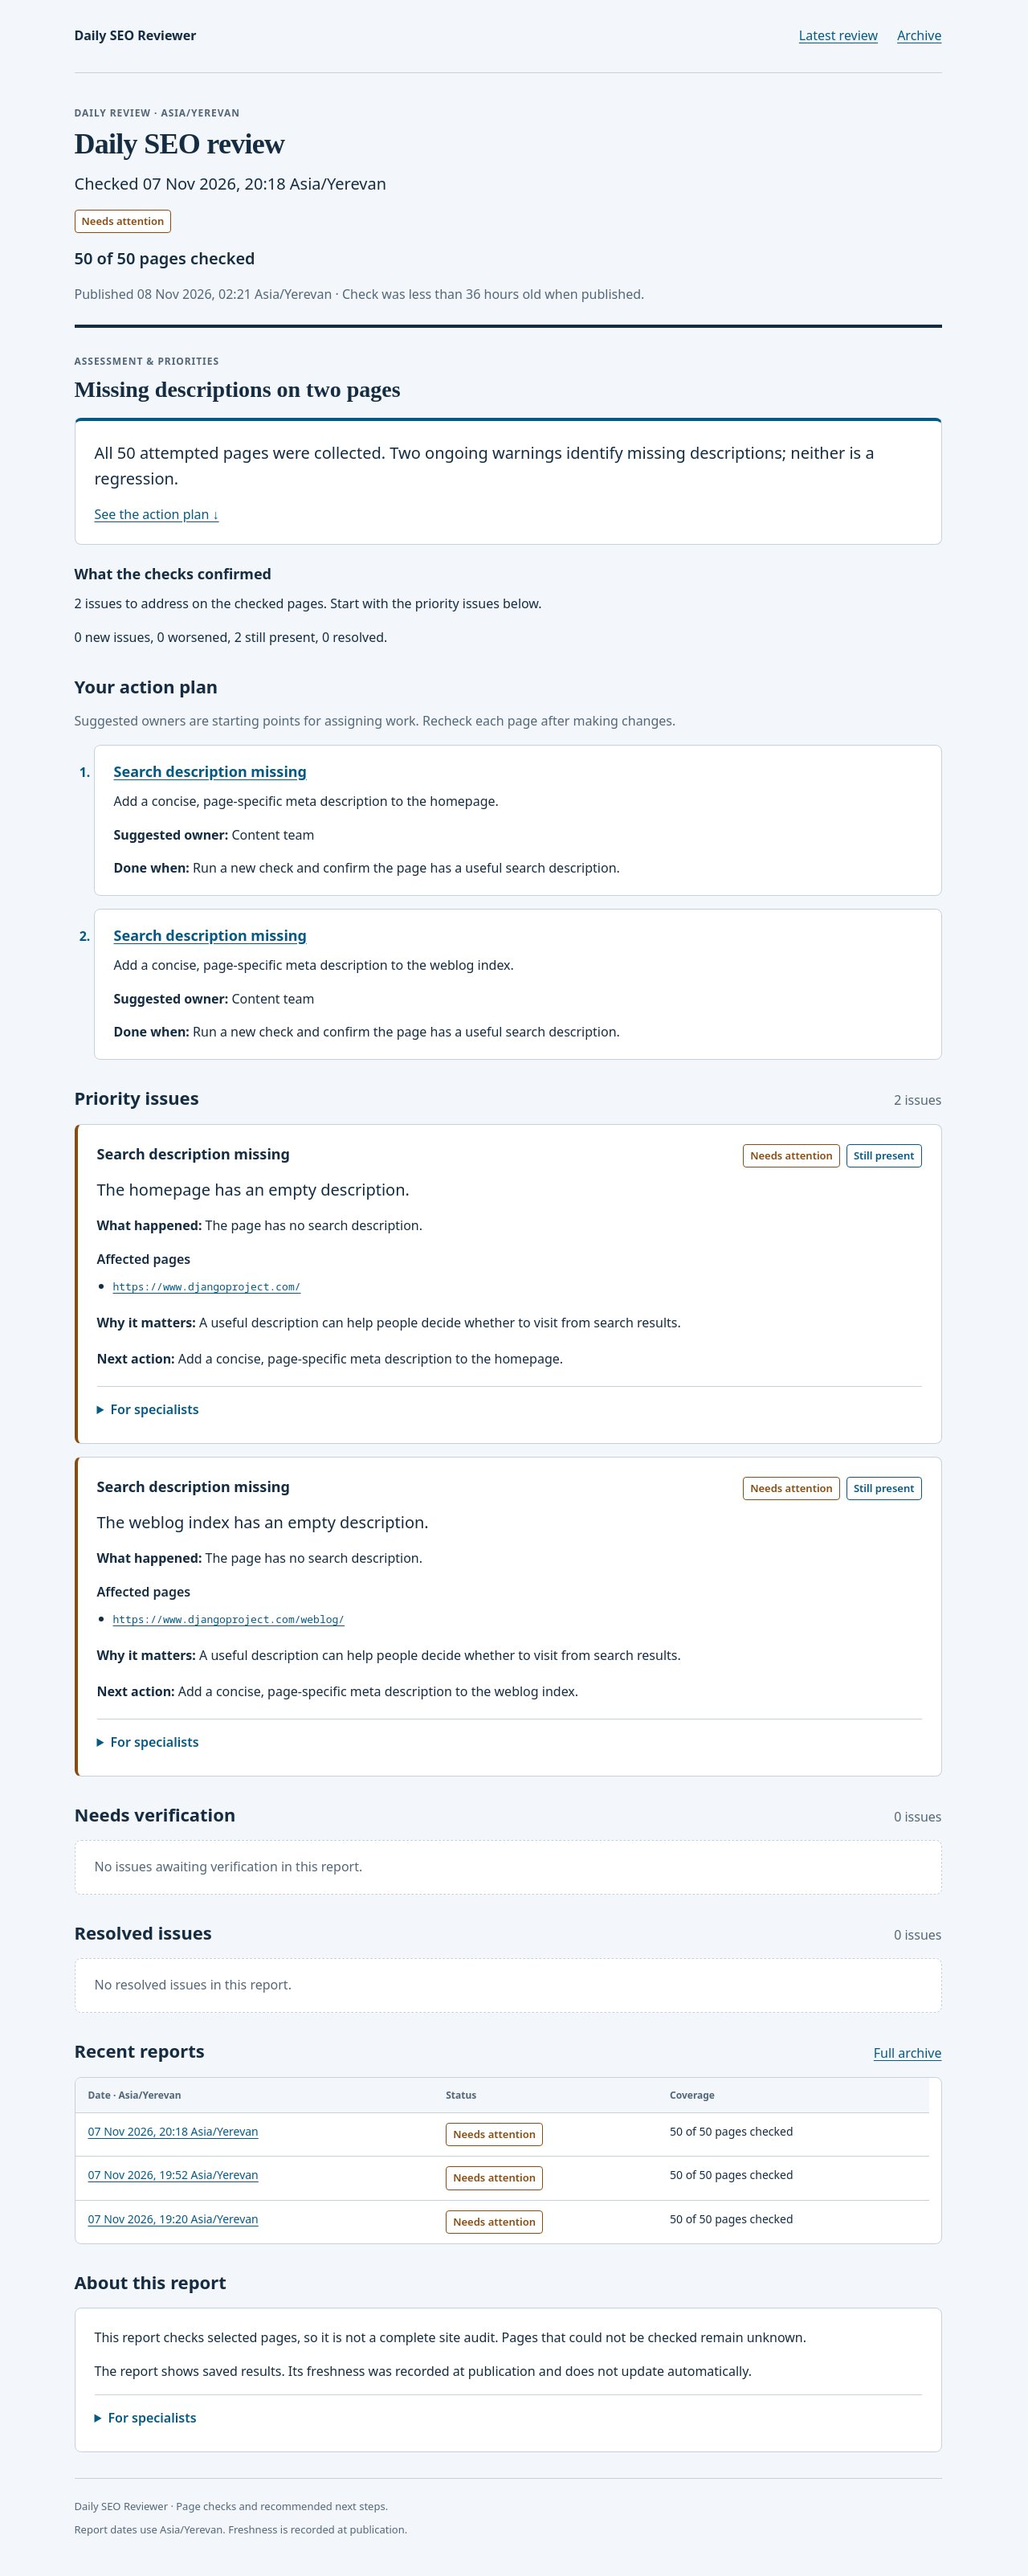
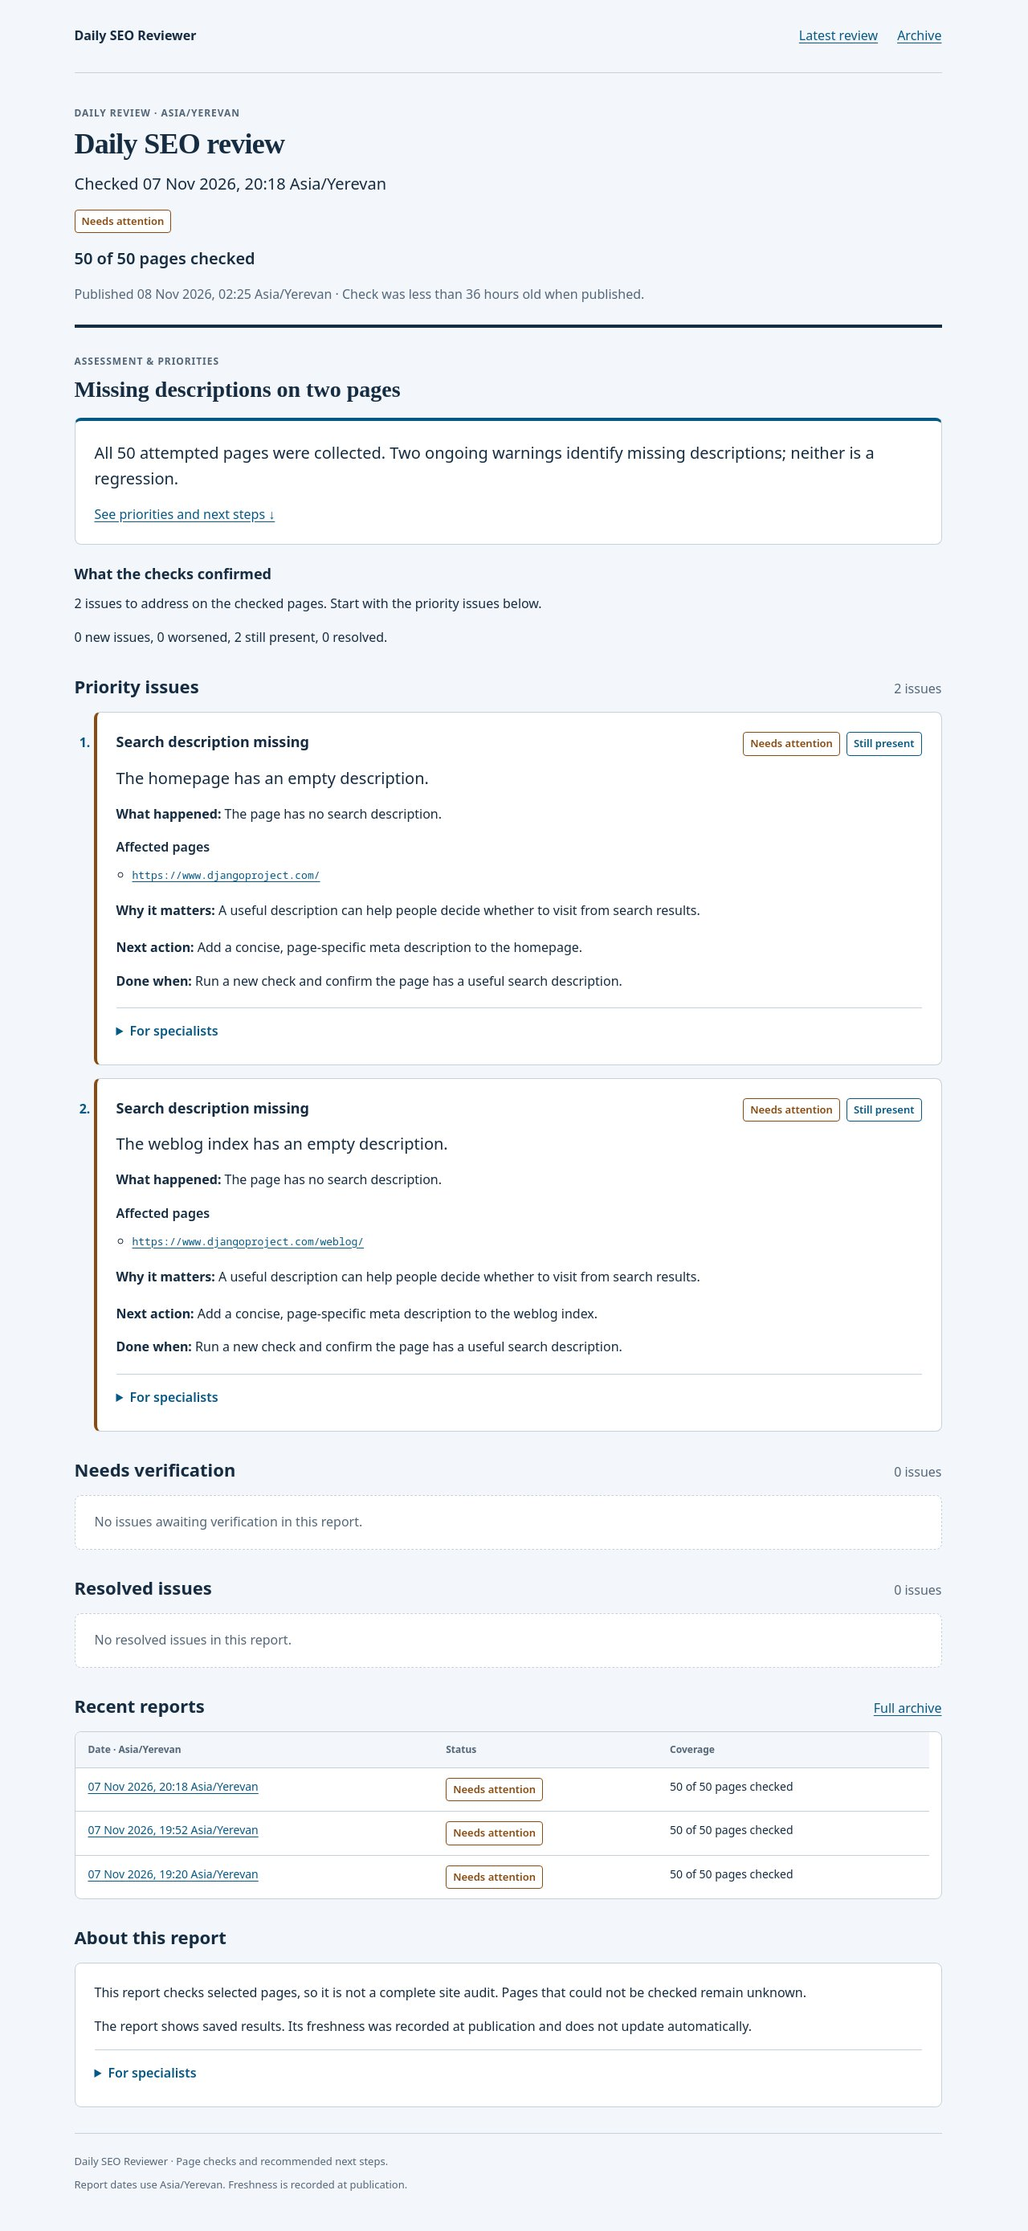
Combine report actions and priorities into one list

diff --git a/seo_reviewer/rendering/report.html b/seo_reviewer/rendering/report.html
@@ -19,7 +19,7 @@
   <p class="eyebrow">Assessment &amp; priorities</p>
   {% if report.narrative_source == 'ai' %}
   <h2 id="assessment-heading" class="assessment-title">{{ report.narrative.headline }}</h2>
-  <div class="assessment panel"><p class="lede">{{ report.narrative.summary }}</p><a href="#action-plan-heading">See the action plan ↓</a></div>
+  <div class="assessment panel"><p class="lede">{{ report.narrative.summary }}</p><a href="#issues-1">See priorities and next steps ↓</a></div>
   {% else %}
   <h2 id="assessment-heading">What needs attention</h2>
   <div class="assessment panel"><p class="lede">{{ presentation.summary }}</p><p class="muted">AI summary unavailable. The page checks and recommended actions are still available.</p></div>
@@ -32,26 +32,13 @@
   </div>
 </section>
 
-<section aria-labelledby="action-plan-heading">
-  <h2 id="action-plan-heading">Your action plan</h2>
-  <p class="muted">Suggested owners are starting points for assigning work. Recheck each page after making changes.</p>
-  <ol class="action-plan">
-    {% for item in action_plan %}
-    <li class="panel">
-      <h3><a href="#{{ item.anchor }}">{{ item.title }}</a>{% if item.finding.state == 'unverified' %} · Verify first{% endif %}</h3>
-      <p>{{ item.action }}</p>
-      <p><strong>Suggested owner:</strong> {{ item.suggested_owner }}</p>
-      <p><strong>Done when:</strong> {{ item.verification }}</p>
-    </li>
-    {% else %}<li class="panel">{{ 'Complete the missing checks before deciding whether fixes are needed.' if presentation.incomplete else 'No fixes are currently indicated. Review the next report for changes.' }}</li>{% endfor %}
-  </ol>
-</section>
-
 {% for section in sections %}
 {% set section_index = loop.index %}
 <section aria-labelledby="issues-{{ section_index }}">
   <div class="section-header"><h2 id="issues-{{ section_index }}">{{ section.title }}</h2><span class="muted">{{ section['items'] | length }} {{ 'issue' if section['items'] | length == 1 else 'issues' }}</span></div>
+  {% if section.title == 'Priority issues' and section['items'] %}<ol class="prioritized-list">{% endif %}
   {% for item in section['items'] %}
+  {% if section.title == 'Priority issues' %}<li>{% endif %}
   <article class="finding finding--{{ item.finding.severity }}" aria-labelledby="issue-{{ section_index }}-{{ loop.index }}">
     <div class="finding-header">
       <h3 id="issue-{{ section_index }}-{{ loop.index }}">{{ item.title }}</h3>
@@ -76,6 +63,7 @@
     <p><strong>Why it matters:</strong> {{ item.matters }}</p>
     <div class="action-block">
       <p><strong>Next action:</strong> {{ item.action }}</p>
+      {% if item.finding.state != 'resolved' %}<p><strong>Done when:</strong> {{ item.verification }}</p>{% endif %}
     </div>
     <details><summary>For specialists</summary>
       <dl class="observation-grid">
@@ -85,7 +73,9 @@
       <ul class="evidence-list">{% for evidence in item.evidence %}<li>{% if evidence.href %}<a href="{{ evidence.href }}">{{ evidence.label }}</a>{% else %}<span>{{ evidence.label }}</span>{% endif %}</li>{% else %}<li><a href="{{ collection_json_href }}">View collection data</a></li>{% endfor %}</ul>
     </details>
   </article>
+  {% if section.title == 'Priority issues' %}</li>{% endif %}
   {% else %}<p class="empty-state">{{ 'No issues awaiting verification' if section.title == 'Needs verification' else 'No ' ~ section.title | lower }} in this report.</p>{% endfor %}
+  {% if section.title == 'Priority issues' and section['items'] %}</ol>{% endif %}
 </section>
 {% endfor %}
 

diff --git a/seo_reviewer/rendering/styles.css b/seo_reviewer/rendering/styles.css
@@ -129,9 +129,5 @@ td:first-child { min-width: 160px; }
 .assessment { border-top: 4px solid var(--accent); }
 .check-results { margin-top: 24px; }
 .issue-assessment { font-size: 20px; }
-.action-plan { padding-left: 24px; }
-.action-plan > li { padding: 20px 24px; margin-bottom: 16px; }
-.action-plan > li::marker { color: var(--accent); font-weight: 700; }
-@media (max-width: 680px) {
-  .action-plan > li { padding: 20px 16px; }
-}
+.prioritized-list { padding-left: 24px; }
+.prioritized-list > li::marker { color: var(--accent); font-weight: 700; }

diff --git a/tests/test_render.py b/tests/test_render.py
@@ -286,11 +286,11 @@ def test_assessment_and_action_plan_use_saved_analysis_without_note_labels(tmp_p
     assert not tree.xpath('//script')
     assert 'saved assessment' in tree.text_content()
     assert 'AI note' not in tree.text_content()
-    plan = tree.xpath('//ol[@class="action-plan"]')[0]
+    plan = tree.xpath('//ol[@class="prioritized-list"]')[0]
     assert 'Write a useful homepage description.' in plan.text_content()
-    assert 'Content team' in plan.text_content() and 'Done when:' in plan.text_content()
-    target = plan.xpath('.//a/@href')[0][1:]
-    assert tree.xpath('//*[@id=$target]', target=target)
+    assert 'Suggested owner' not in tree.text_content() and 'Done when:' in plan.text_content()
+    assert tree.text_content().count('Write a useful homepage description.') == 1
+    assert 'Your action plan' not in tree.text_content()
     assert tree.xpath('//article/p[@class="issue-assessment"]')[0].text == 'Start with the homepage description.'
 
 
@@ -300,7 +300,8 @@ def test_action_plan_excludes_resolved_and_rechecks_unverified(tmp_path):
     save_review(data, findings=findings)
     render_site(data, output)
     tree = html.fromstring((output / 'index.html').read_text())
-    plan = tree.xpath('//ol[@class="action-plan"]')[0]
-    assert len(plan.xpath('./li')) == 1
-    assert 'Verify first' in plan.text_content()
-    assert 'Complete a reliable follow-up check' in plan.text_content()
+    assert not tree.xpath('//ol[@class="prioritized-list"]')
+    unverified = tree.xpath('//article')[0]
+    assert 'Needs verification' in unverified.text_content()
+    assert 'Complete a reliable follow-up check' in unverified.text_content()
+    assert 'Done when:' not in tree.xpath('//article')[1].text_content()

diff --git a/seo_reviewer/render.py b/seo_reviewer/render.py
@@ -155,12 +155,6 @@ def render_site(data_dir: Path, output_dir: Path, *, base: str = '', now: dateti
             'collected_at': display_time(collected), 'published_at': display_time(now), 'freshness': freshness,
             'baseline': review.baseline_only, 'sections': sections, 'history': history[:5],
             'presentation': report_presentation(review, collection),
-            'action_plan': [
-                {**item, 'anchor': f'issue-{section_index}-{item_index}'}
-                for section_index, section in enumerate(sections, 1)
-                if section['title'] != 'Resolved issues'
-                for item_index, item in enumerate(section['items'], 1)
-            ],
             'archive_href': link('archive/index.html'), 'review_json_href': link(f'data/reviews/{review.run_id}.json'),
             'collection_json_href': link(f'data/runs/{review.run_id}/collection.json'),
             'workflow_href': safe_url(workflow_url) if require_run_id == review.run_id else None,

diff --git a/seo_reviewer/report_content.py b/seo_reviewer/report_content.py
@@ -165,7 +165,6 @@ def issue_presentation(finding: Finding) -> dict:
         'before': observation_text(finding.rule, finding.before),
         'observed': observation_text(finding.rule, finding.observed),
         'observation_label': 'Last seen' if finding.state in {'resolved', 'unverified'} else 'Now',
-        'suggested_owner': 'Content team' if finding.rule in {'missing_title', 'missing_description', 'duplicate_title', 'missing_h1'} else 'Web team',
         'verification': {
             'missing_title': 'Run a new check and confirm the page has a descriptive title.',
             'duplicate_title': 'Recheck all affected pages and confirm their titles are distinct.',

diff --git a/DESIGN.md b/DESIGN.md
@@ -56,4 +56,4 @@ Shared `base.html` owns landmarks/navigation and stylesheet; `report.html` is re
 
 Show authoritative facts before advisory AI prose. Keep code-derived coverage and statuses outside AI sentences. Each issue explains what happened, affected pages, why it matters, and the next action. Use “first report” and “new issue” only when supported by comparison evidence. Keep run/finding identifiers, rule codes, confidence values, and digests out of the report text. Place JSON, repository/workflow links, raw observations, and diagnostic details in closed “For specialists” disclosures; do not publish crawled HTML as executable pages. Keep latest and archive layout identical. Do not add form controls, a client framework, or deceptive interactive rows.
 
-The report leads with the saved assessment and its headline, followed by an ordered action plan and priority explanations. Individual explanations have no “AI note” labels. Suggested owners and completion checks are standard workflow guidance; recommendations and ordering reuse saved analysis where available. Coverage and confirmed changes remain code-derived and visible. No saved reviews are rewritten or extra model calls made to render the report.
+The report leads with the saved assessment and its headline, followed by one ordered priority list combining reasoning, affected pages, next actions, and completion checks. Individual explanations have no “AI note” labels. Completion checks are standard workflow guidance; recommendations and ordering reuse saved analysis where available. No suggested owners are displayed. Coverage and confirmed changes remain code-derived and visible. No saved reviews are rewritten or extra model calls made to render the report.

diff --git a/UX-CONTRACT.md b/UX-CONTRACT.md
@@ -12,4 +12,4 @@ Source: README.md collection/detection/review contracts and the user's HTML repo
 - Daily Issue summary uses code-derived facts and actions. One run-ID marker prevents duplicates across delivery retries; a failed publication produces an explicit delivery warning instead of linking an older review as current.
 - Permission/delivery source: repository workflow and existing `GitHubDelivery`; generated review data remains public under the established public repository contract. No raw response bodies are copied into the Pages artifact.
 
-The report leads with the saved assessment and its headline, followed by an ordered action plan and priority explanations. Individual explanations have no “AI note” labels. Suggested owners and completion checks are standard workflow guidance; recommendations and ordering reuse saved analysis where available. Coverage and confirmed changes remain code-derived and visible. No saved reviews are rewritten or extra model calls made to render the report.
+The report leads with the saved assessment and its headline, followed by one ordered priority list combining reasoning, affected pages, next actions, and completion checks. Individual explanations have no “AI note” labels. Completion checks are standard workflow guidance; recommendations and ordering reuse saved analysis where available. No suggested owners are displayed. Coverage and confirmed changes remain code-derived and visible. No saved reviews are rewritten or extra model calls made to render the report.

diff --git a/README.md b/README.md
@@ -221,4 +221,4 @@ Next: run the complete hosted workflow to verify report deployment and daily Iss
 
 API implementation references: [OpenAI Structured Outputs](https://developers.openai.com/api/docs/guides/structured-outputs), [OpenAI Python parsing helpers](https://github.com/openai/openai-python/blob/main/helpers.md), [Protego](https://github.com/scrapy/protego), and [GitHub Pages workflows](https://docs.github.com/en/pages/getting-started-with-github-pages/using-custom-workflows-with-github-pages).
 
-The report leads with the saved assessment and its headline, followed by an ordered action plan and priority explanations. Individual explanations have no “AI note” labels. Suggested owners and completion checks are standard workflow guidance; recommendations and ordering reuse saved analysis where available. Coverage and confirmed changes remain code-derived and visible. No saved reviews are rewritten or extra model calls made to render the report.
+The report leads with the saved assessment and its headline, followed by one ordered priority list combining reasoning, affected pages, next actions, and completion checks. Individual explanations have no “AI note” labels. Completion checks are standard workflow guidance; recommendations and ordering reuse saved analysis where available. No suggested owners are displayed. Coverage and confirmed changes remain code-derived and visible. No saved reviews are rewritten or extra model calls made to render the report.
